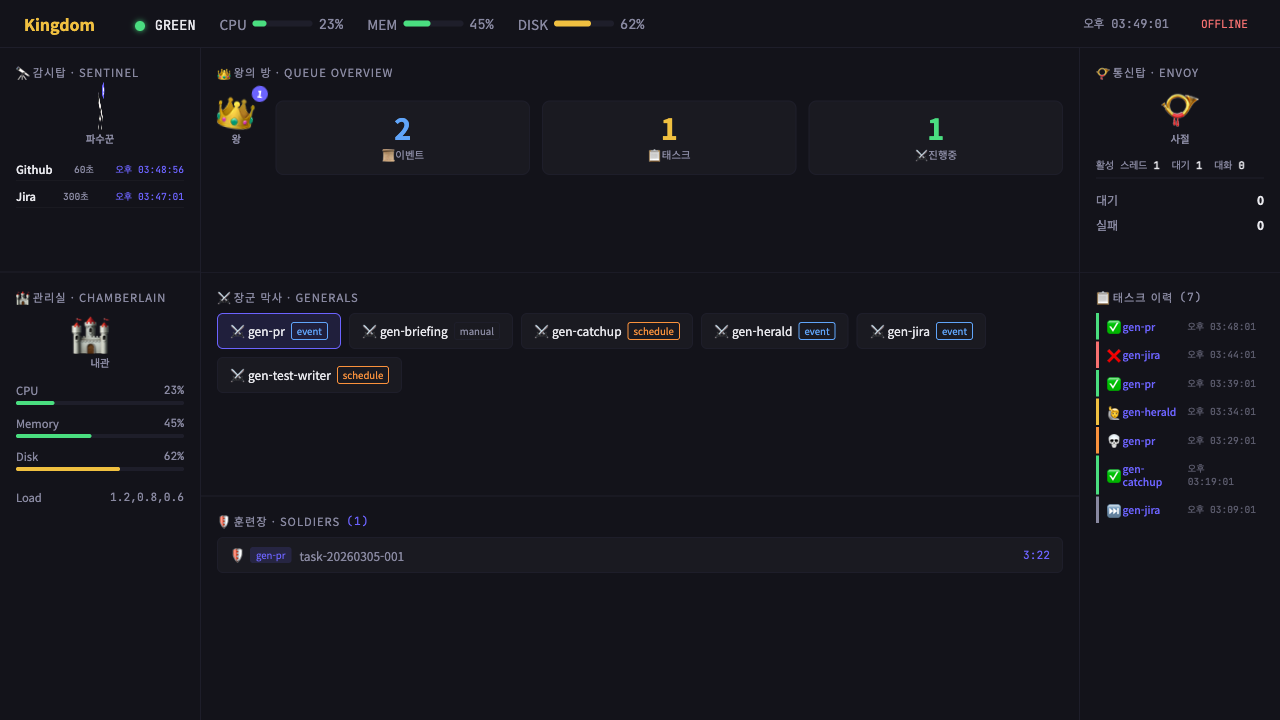
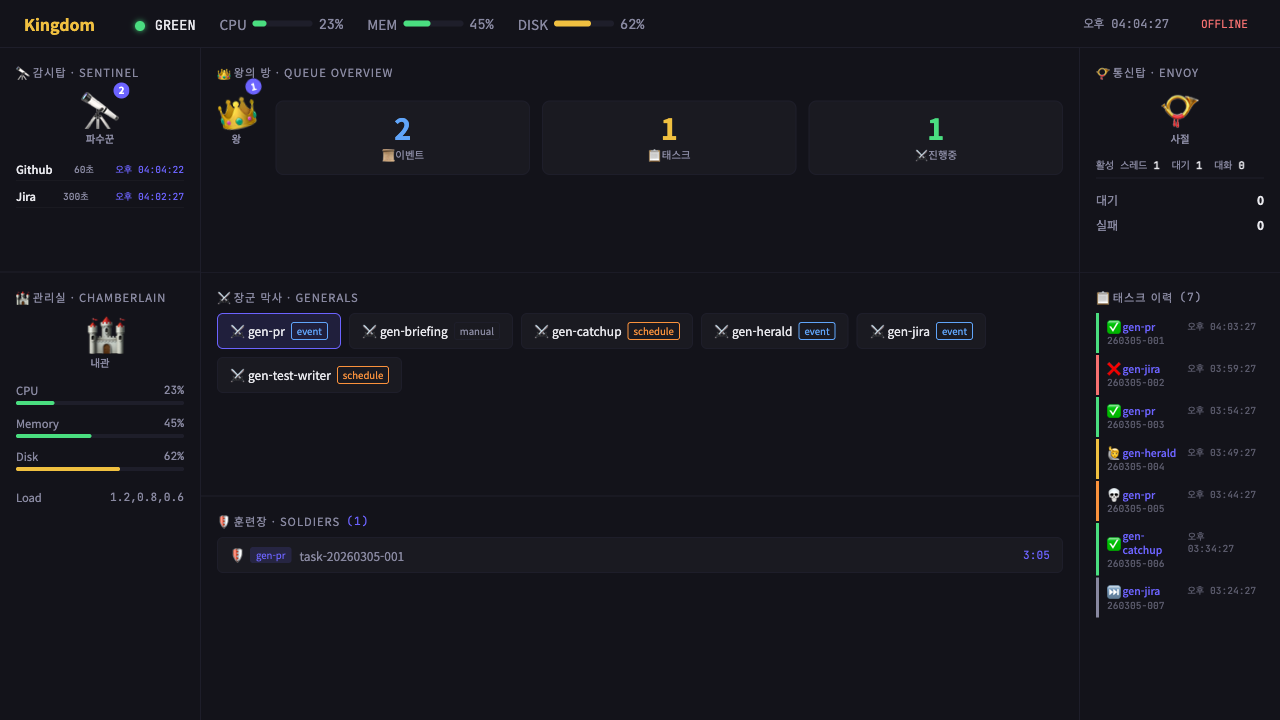
fix: 태스크 이력에 태스크 ID 표시 추가

diff --git a/tools/dashboard/index.html b/tools/dashboard/index.html
@@ -394,6 +394,13 @@
     font-size: 0.6rem;
     opacity: 0.6;
   }
+  .task-id {
+    font-family: 'JetBrains Mono', monospace;
+    font-size: 0.6rem;
+    color: var(--text-dim);
+    opacity: 0.6;
+    margin-top: 1px;
+  }
   .task-detail {
     display: none;
     margin-top: 4px;
@@ -980,6 +987,8 @@ function render(data) {
       const status = t.status || 'unknown';
       const icon = STATUS_ICONS[status] || STATUS_ICONS.unknown;
       const general = escapeHtml(t.general) || '?';
+      const taskId = escapeHtml(t.id) || '';
+      const shortId = taskId.length > 15 ? taskId.slice(-10) : taskId;
       const time = t.completed_at ? formatTime(t.completed_at) : '--';
       const summary = escapeHtml(t.summary);
       const error = escapeHtml(t.error);
@@ -990,6 +999,7 @@ function render(data) {
           <span class="task-general">${general}</span>
           <span class="task-time">${time}</span>
         </div>
+        <div class="task-id">${shortId}</div>
         ${hasDetail ? `<div class="task-detail">
           ${summary ? `<div><span class="detail-label">요약:</span> ${summary}</div>` : ''}
           ${error ? `<div class="detail-error"><span class="detail-label">오류:</span> ${error}</div>` : ''}
